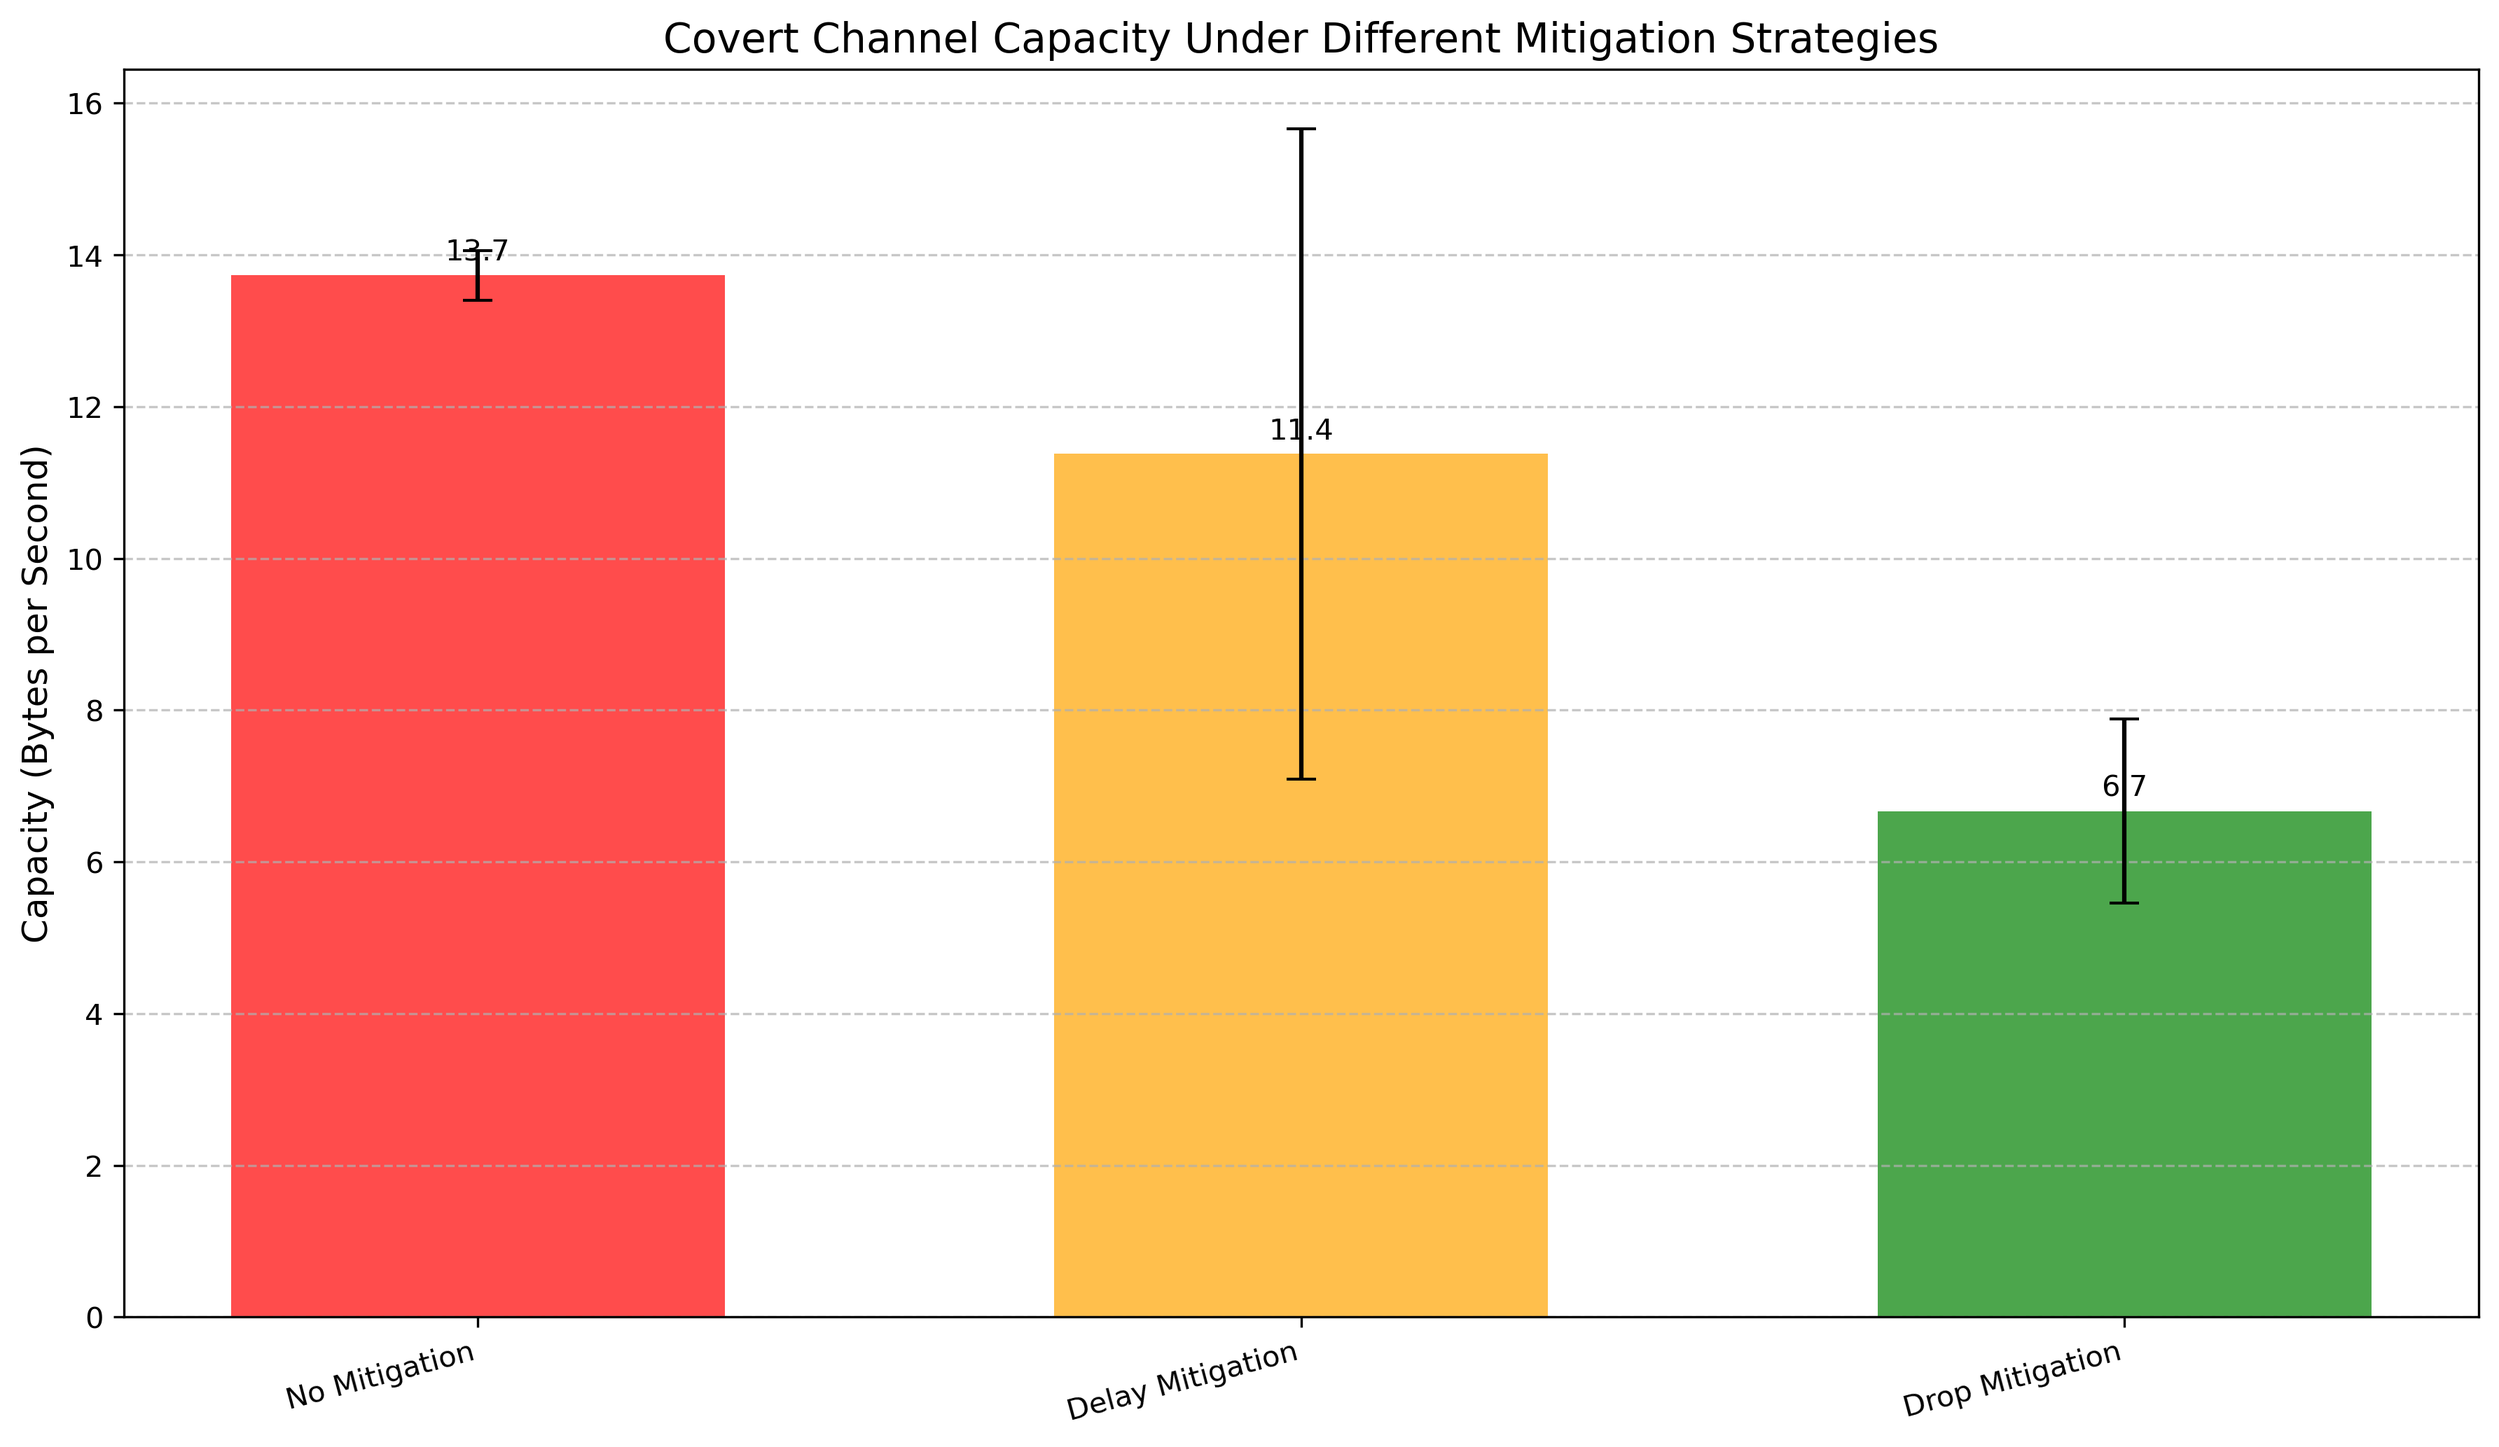
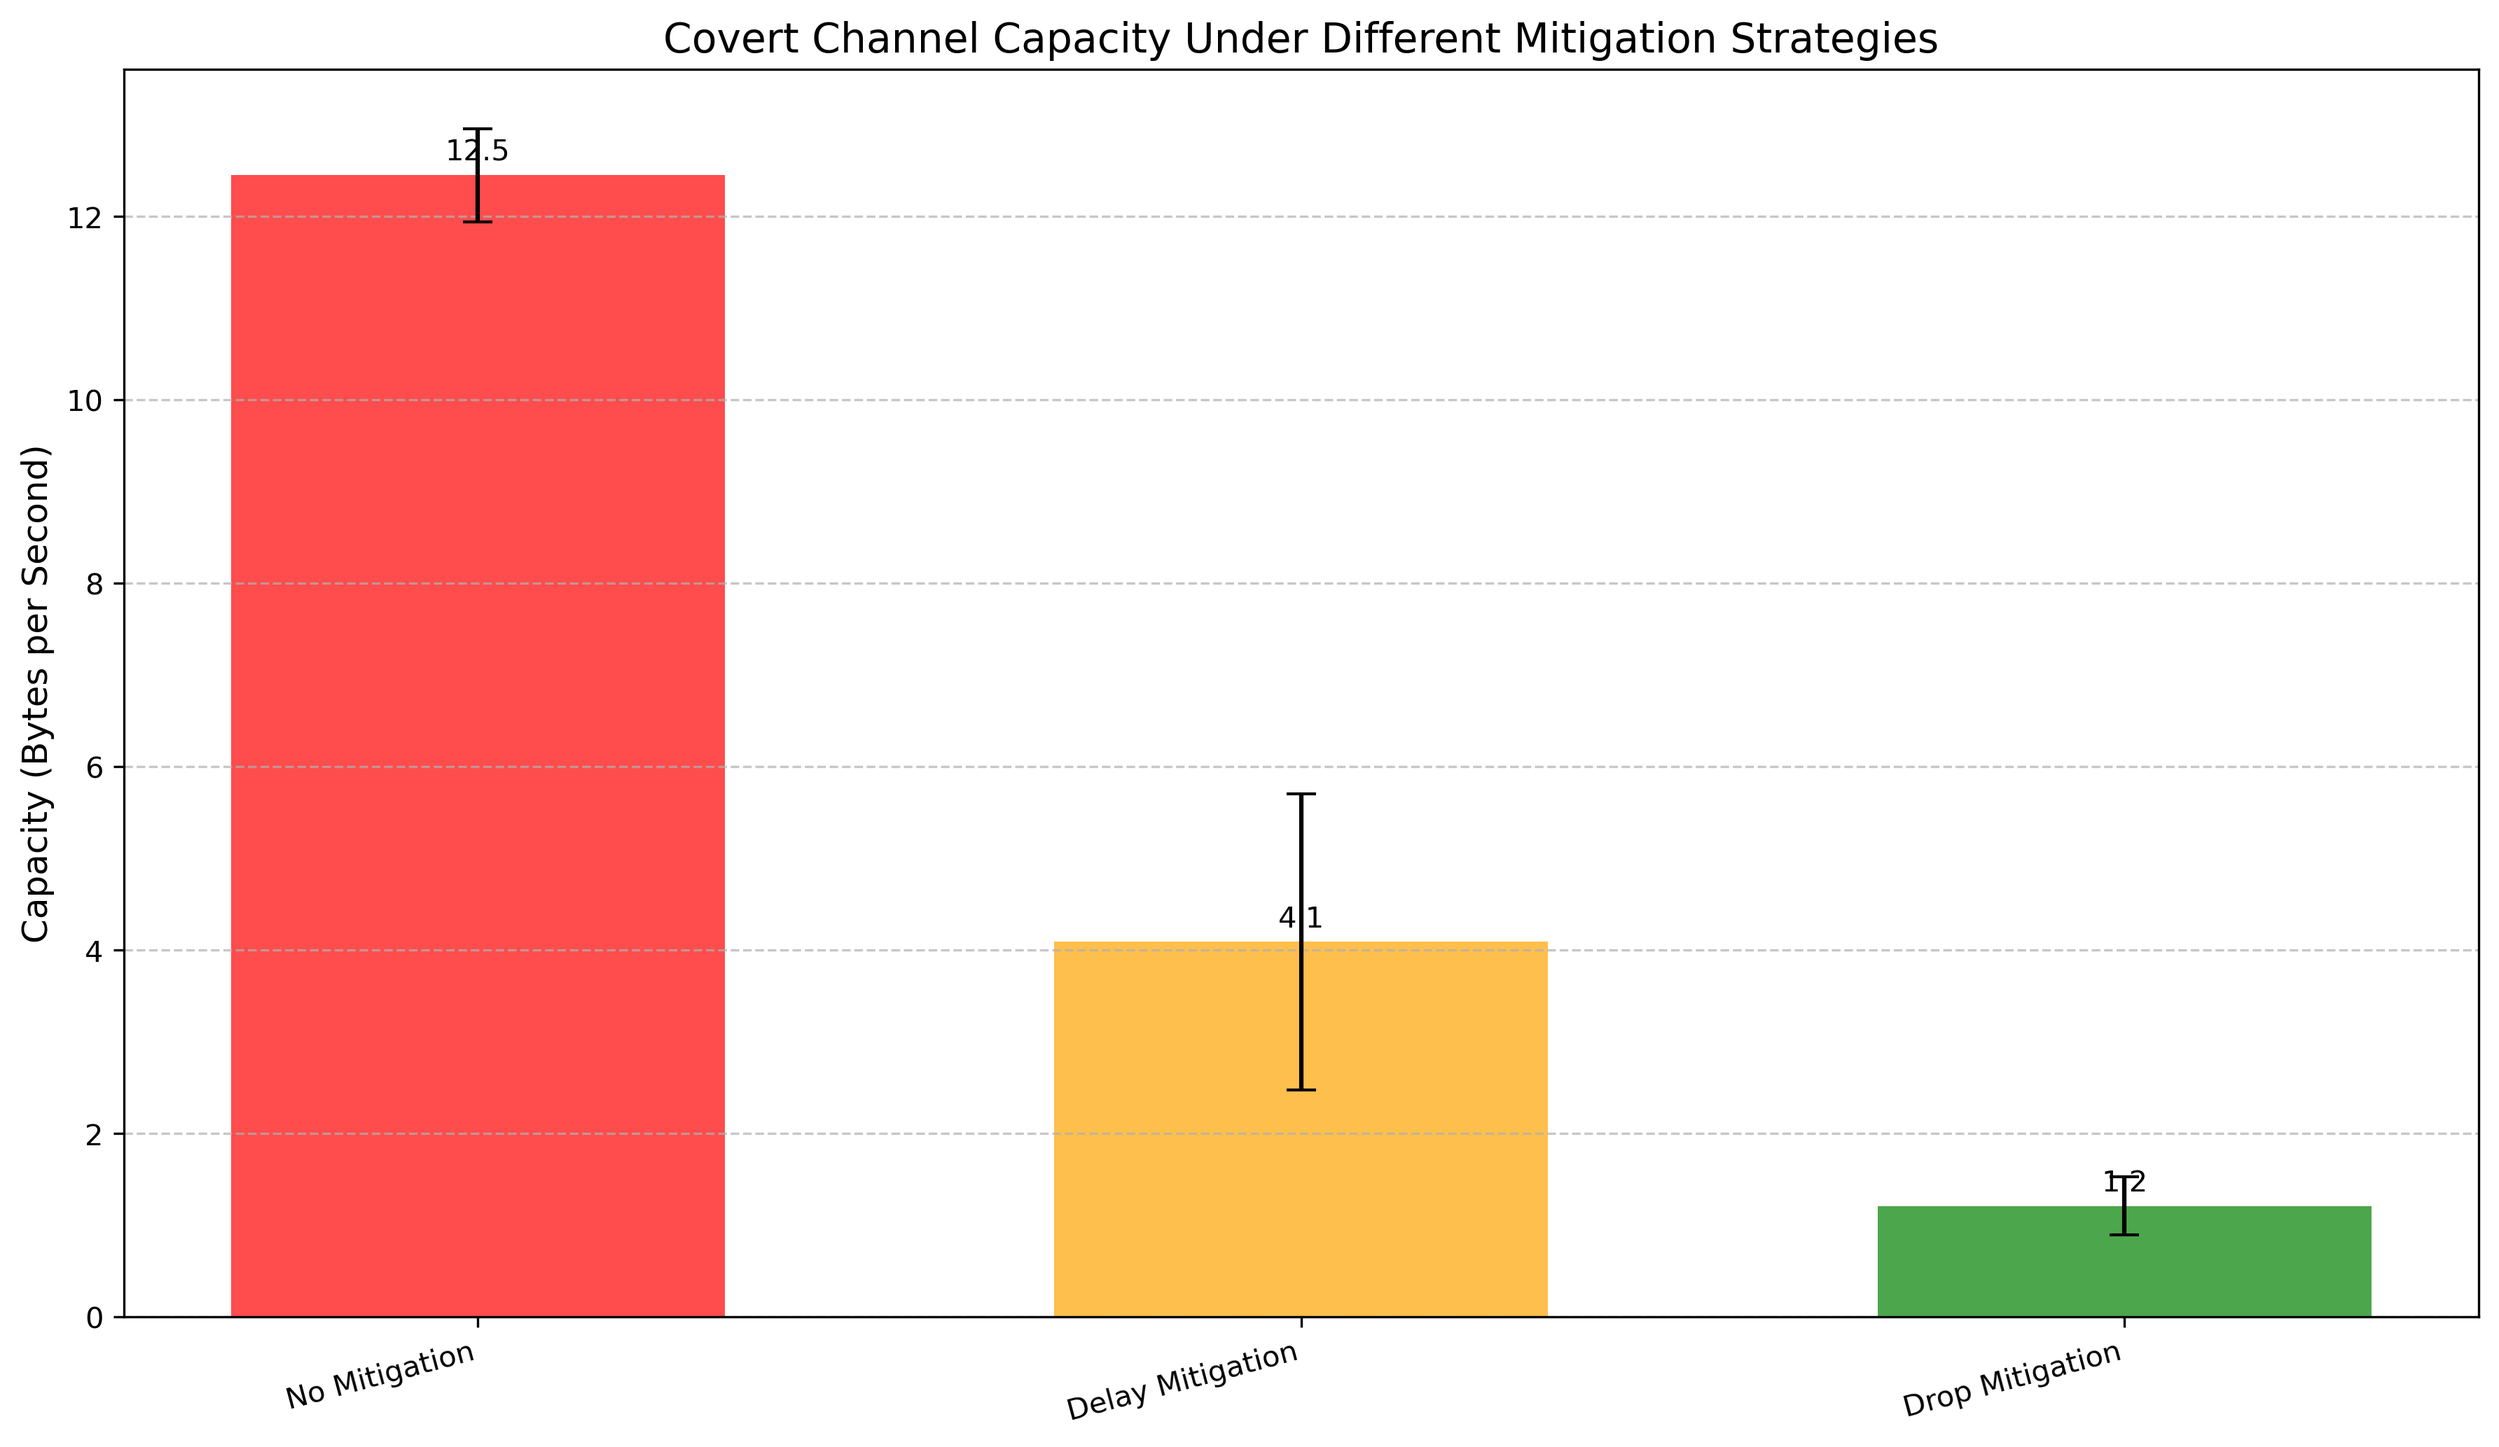
Fix calculation error

diff --git a/code/utils/phase4/phase4.py b/code/utils/phase4/phase4.py
@@ -98,7 +98,7 @@ def parse_mitm_log_data(filename):
 
 def calculate_capacity_with_time_diff(message_size, time_diff_ns, correctness):
     """Calculate capacity using time difference between consecutive messages"""
-    if not correctness or time_diff_ns <= 0:
+    if not correctness or time_diff_ns <= 0 or time_diff_ns is None:
         return 0.0
     return message_size / (time_diff_ns / 1e9)
 
@@ -275,7 +275,7 @@ def calculate_additional_metrics(parsed_receiver_data):
         
         # Calculate capacities using pre-calculated time differences
         capacities = []
-        for d in data_with_time_diff:
+        for d in parsed_data:
             capacity = calculate_capacity_with_time_diff(
                 d["message_size"], 
                 d["time_diff_ns"], 
@@ -283,11 +283,9 @@ def calculate_additional_metrics(parsed_receiver_data):
             )
             capacities.append(capacity)
         
-        message_sizes = [d["message_size"] for d in data_with_time_diff]
-        chunks_received = [d["chunks_received"] for d in data_with_time_diff]
-        
-        correct_messages = sum(1 for d in data_with_time_diff if d.get("correctness", False))
-        correctness_rate = correct_messages / len(data_with_time_diff) if len(data_with_time_diff) > 0 else 0
+        message_sizes = [d["message_size"] for d in parsed_data]
+        correct_messages = sum(1 for d in parsed_data if d.get("correctness", False))
+        correctness_rate = correct_messages / len(parsed_data) if len(parsed_data) > 0 else 0
         
         detailed_results[strategy] = {
             'total_messages': len(parsed_data),
@@ -438,11 +436,8 @@ def analyze_receiver_performance(receiver_data):
         if not parsed_data:
             continue
         
-        # Use pre-calculated time differences for capacity calculations (skip first message)
-        data_with_time_diff = [d for d in parsed_data if d["time_diff_ns"] is not None]
-        
         capacities = []
-        for d in data_with_time_diff:
+        for d in parsed_data:
             capacity = calculate_capacity_with_time_diff(
                 d["message_size"], 
                 d["time_diff_ns"], 
